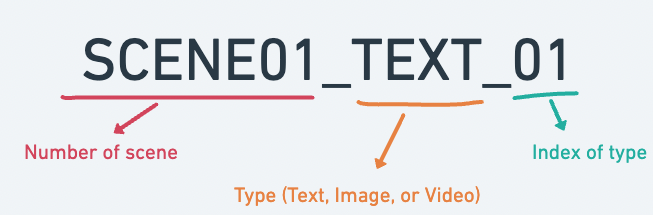
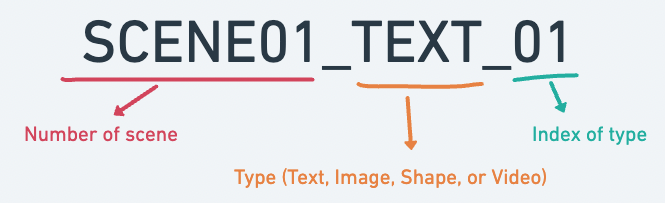
add doc shape

Changed region(s): [[0.0306, 0.0887, 1.0, 0.798], [0.3369, 0.8276, 0.827, 0.9754]]

diff --git a/source/index.html.md b/source/index.html.md
@@ -259,6 +259,18 @@ ID | The ID of the bite to retrieve
       "value": "https://bannerbite-dev-storage.s3.eu-central-1.amazonaws.com/gallery/images/1683178194469-tranpsarent-dummy-scene.png"
   },
   {
+      "name": "scene01_shape_01",
+      "color": "#ffffff"
+  },
+  {
+      "name": "scene01_shape_02",
+      "color": "#e4002b"
+  },
+  {
+      "name": "scene01_shape_03",
+      "color": "#ffffff"
+  },
+  {
       "name": "scene01_text_01",
       "value": "Rune  Kristine Fiske ",
       "color": "#ffffff"
@@ -319,6 +331,12 @@ Parameter | Type  | Description
 --------- | ------- | -----------
 name | string | The variables used to identify the scene and the parameters to be used
 value | string | Value to be filled in the scene
+
+### Parameters Shape
+Parameter | Type  | Description
+--------- | ------- | -----------
+name | string | The variables used to identify the scene and the parameters to be used
+color | string | The variable used to change the color of the shape
 
 ### Parameters Video
 Parameter | Type | Description
